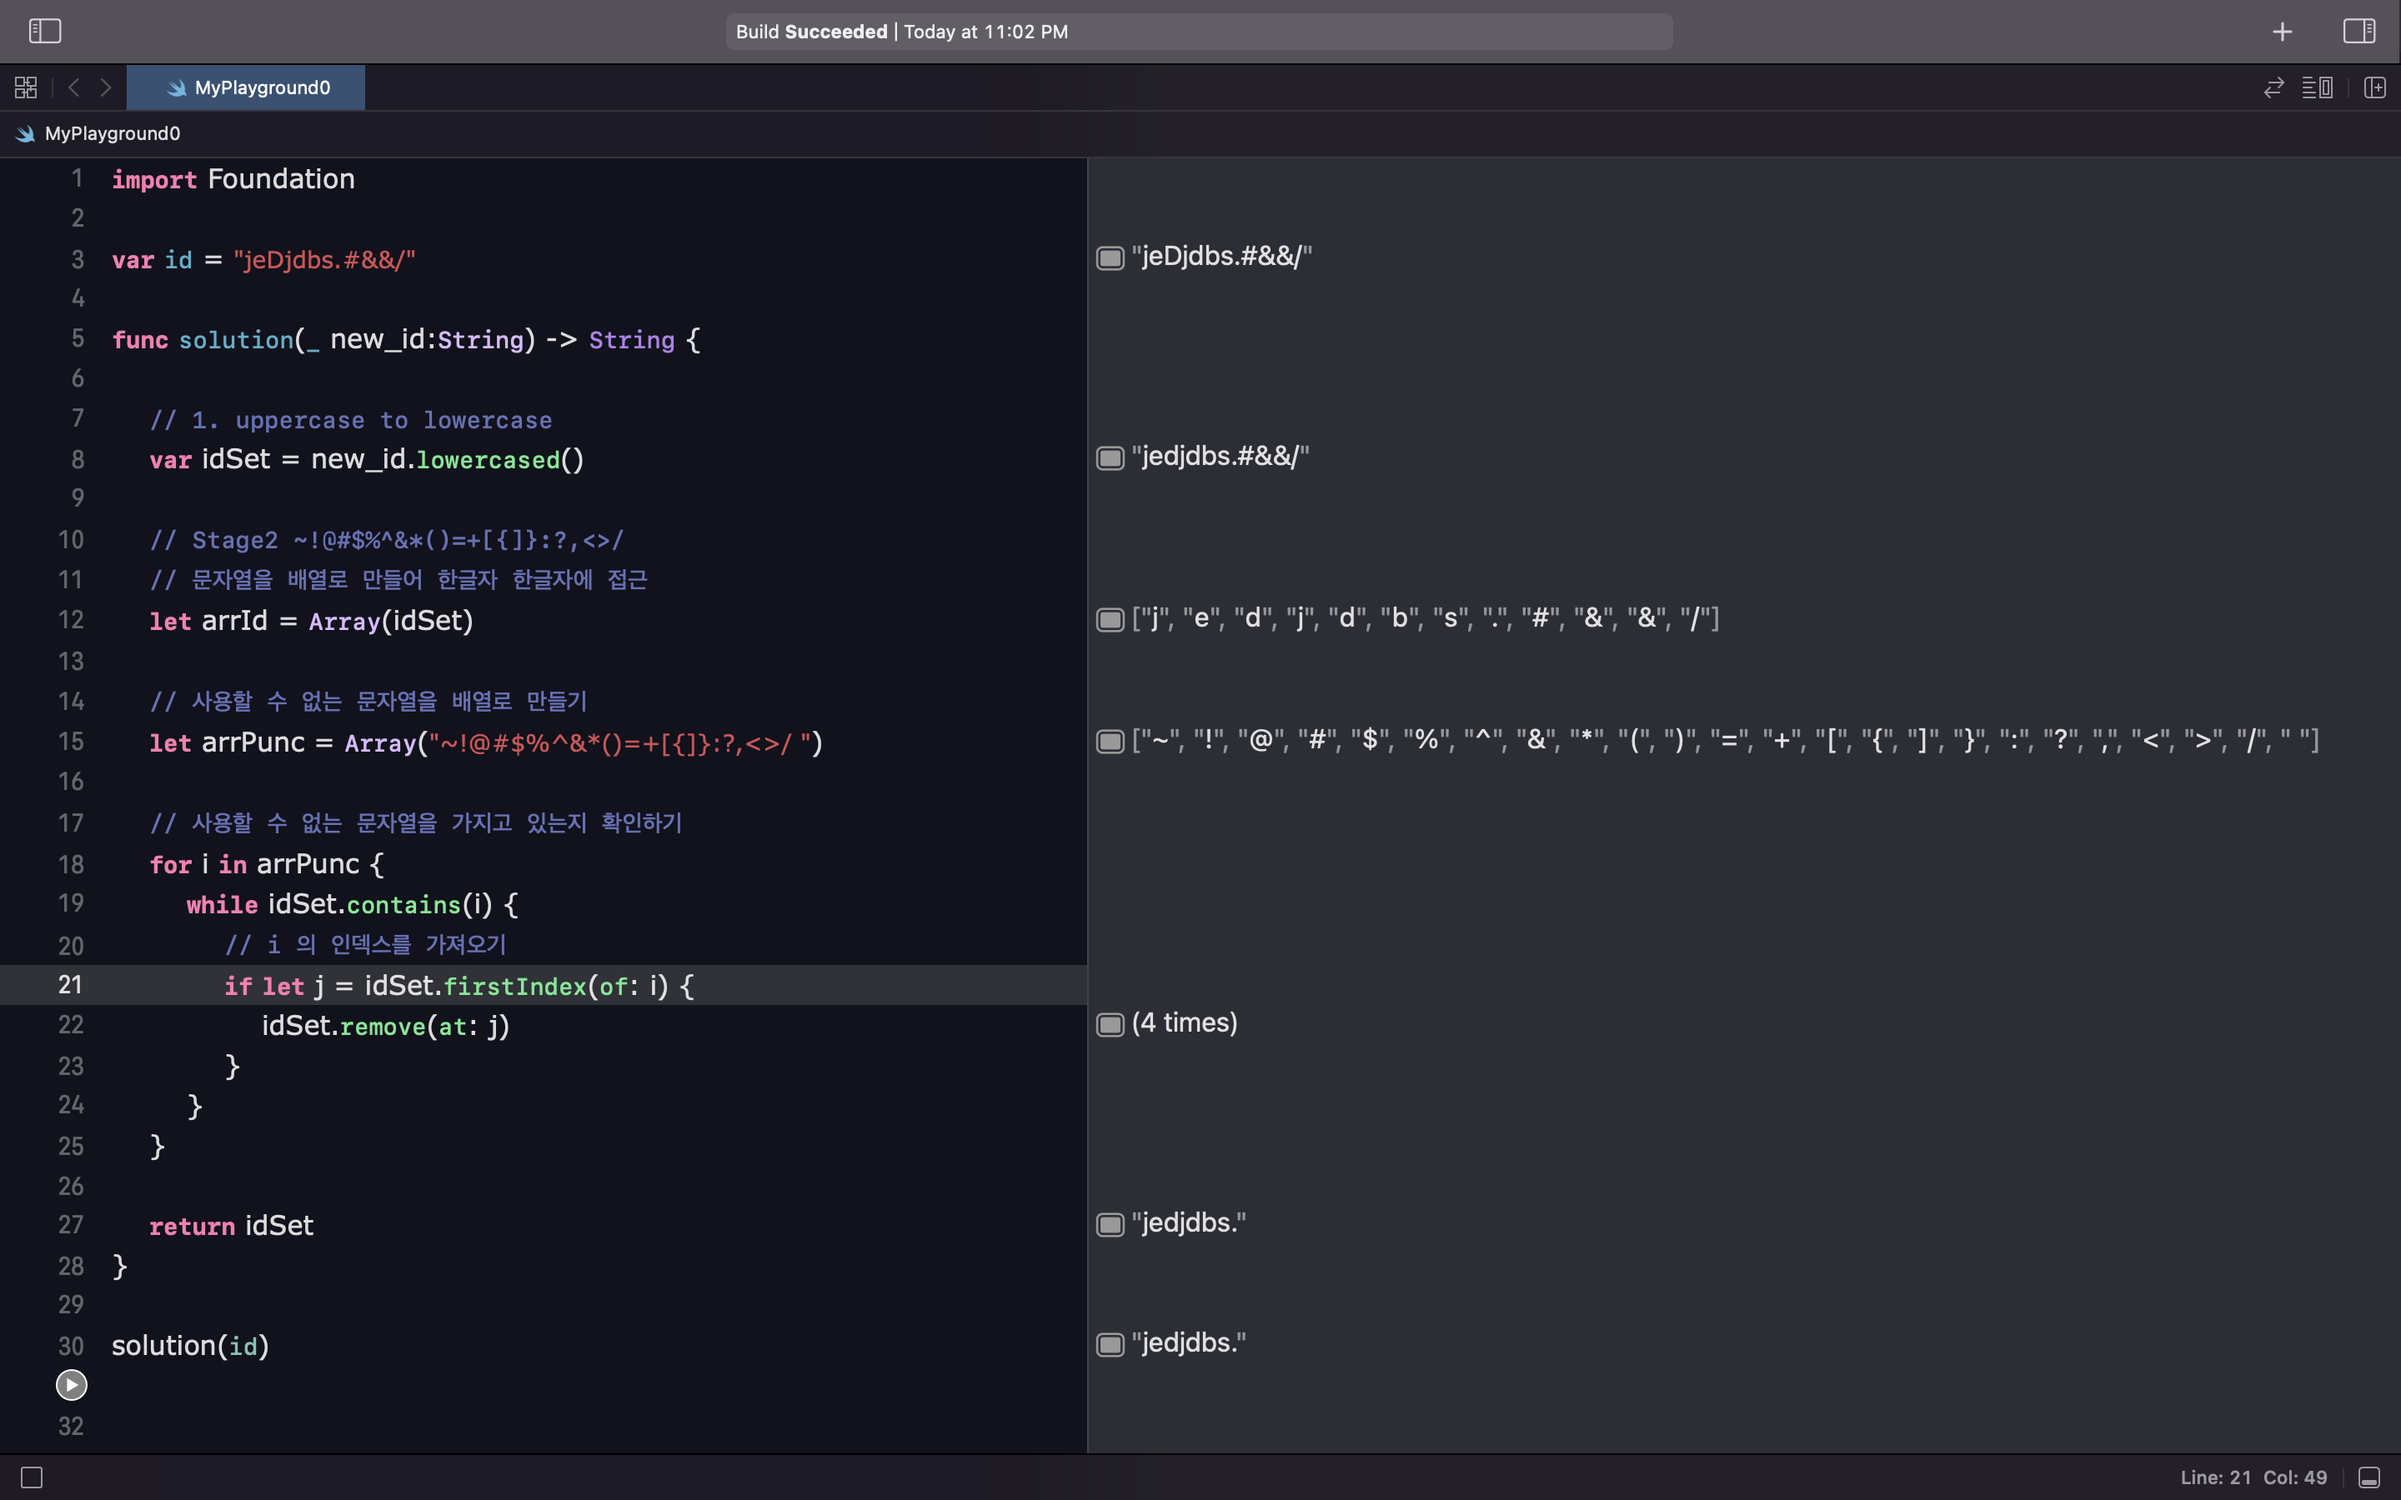
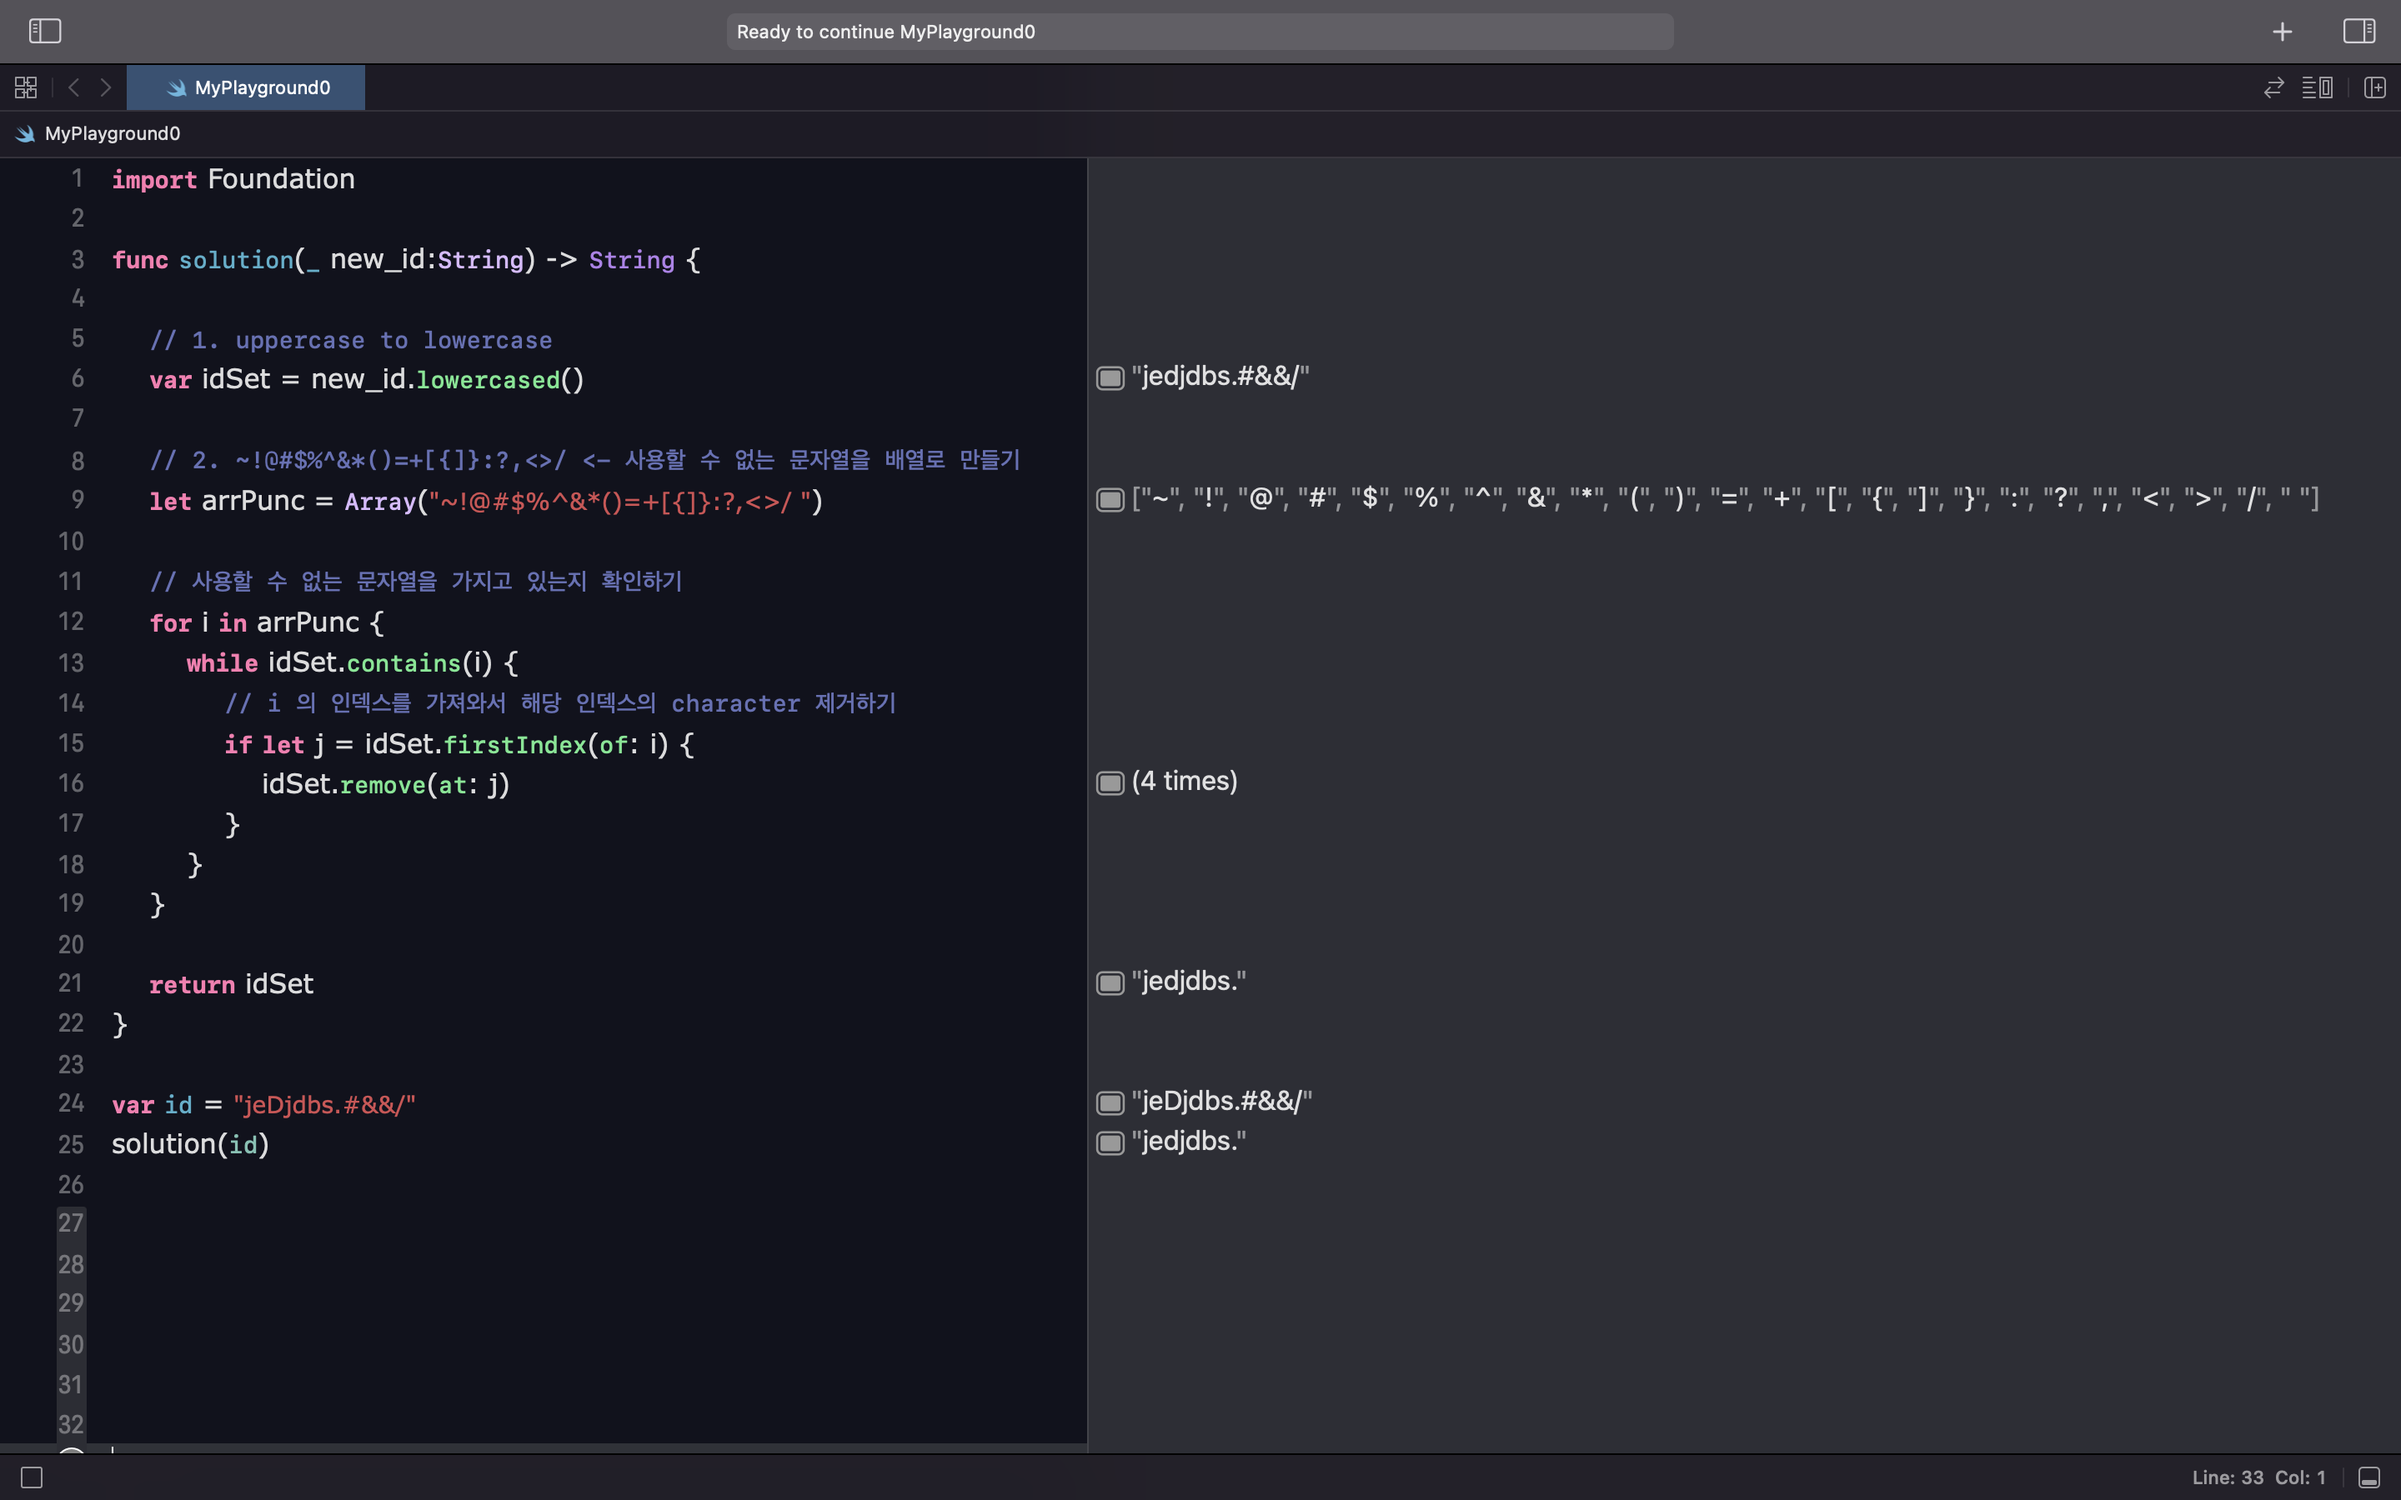
userIdGenerator.md

diff --git a/_posts/2022-09-16-TIL-UserIdGenerator.md b/_posts/2022-09-16-TIL-UserIdGenerator.md
@@ -4,23 +4,22 @@ author: Mirae
 date: 2022-09-16
 category: TIL
 layout: post
-cover: /assets/images/Thinking.gif
+<!--cover: /assets/images/Thinking.gif-->
 ---
 
-  <center><img src="/assets/images/UserIdGenerator.png" alt="UserIdGenerator.png" width="600"></center><br>
+  <center><img src="/assets/images/UserIdGenerator.png" alt="UserIdGenerator.png" width="1000"></center><br>
 
-> 코딩테스트 문제를 풀다가 다시 한번 복습해보는 스위프트의 유일한 삼항연산자,,
+> 코딩테스트 연습하기
 {: .block-tip }
 
-# Ternary conditional operator 
+  [문제 링크입니다.](https://school.programmers.co.kr/learn/courses/30/lessons/72410)
+
+# 풀이 과정  
+  - 1) lowercased() 함수를 사용하여 모두 소문자로 치환 
+  - 2) 나타날 수 있는 특수문자 중 사용 불가능한 문자들로 이루어진 배열 생성 
+  - 3) 2)에서 생성한 배열의 요소와 일치하는 특수문자를 아이디가 포함하고 있다면 계속해서 while 문을 돌며 그 문자를 제거. 원래는 while  자리에 if 를 사용했는데 &&처럼 반복되는 특수문자가 있을 때 첫번째 인덱스의 & 하나만 제거하여 나머지 &은 제거되지 않는 문제가 발생하여 while로 변경하여 아이디가 &을 포함하는 한 계속해서 반복하며 제거할 수 있도록 했다. 
   
-  이름에서 알 수 있듯이 세 개의 항을 가진 연산자입니다.  
-  삼항 조건 연산자는 스위프트의 유일한 삼항 연산자라고 합니다.  
+
     
     
-  위 사진에서는, 첫번째 줄에 let RT 라는 상수에 그 뒤에 오는 삼항연산자의 결과 값을 할당해 줍니다.  
-  1) 각 딕셔너리 키에 해당하는 값 (여기서는 Int 타입 값)을 비교  
-  2) ? 뒤에는 true : false 라고 생각하면 됩니다.   
-  3) Dict["R"]! 의 값이 3 이라고 하고, Dict["T"]의 값이 2라고 한다면...  
-  4) 조건은 true 가 되므로 let RT = "R"이 됩니다.   
  
